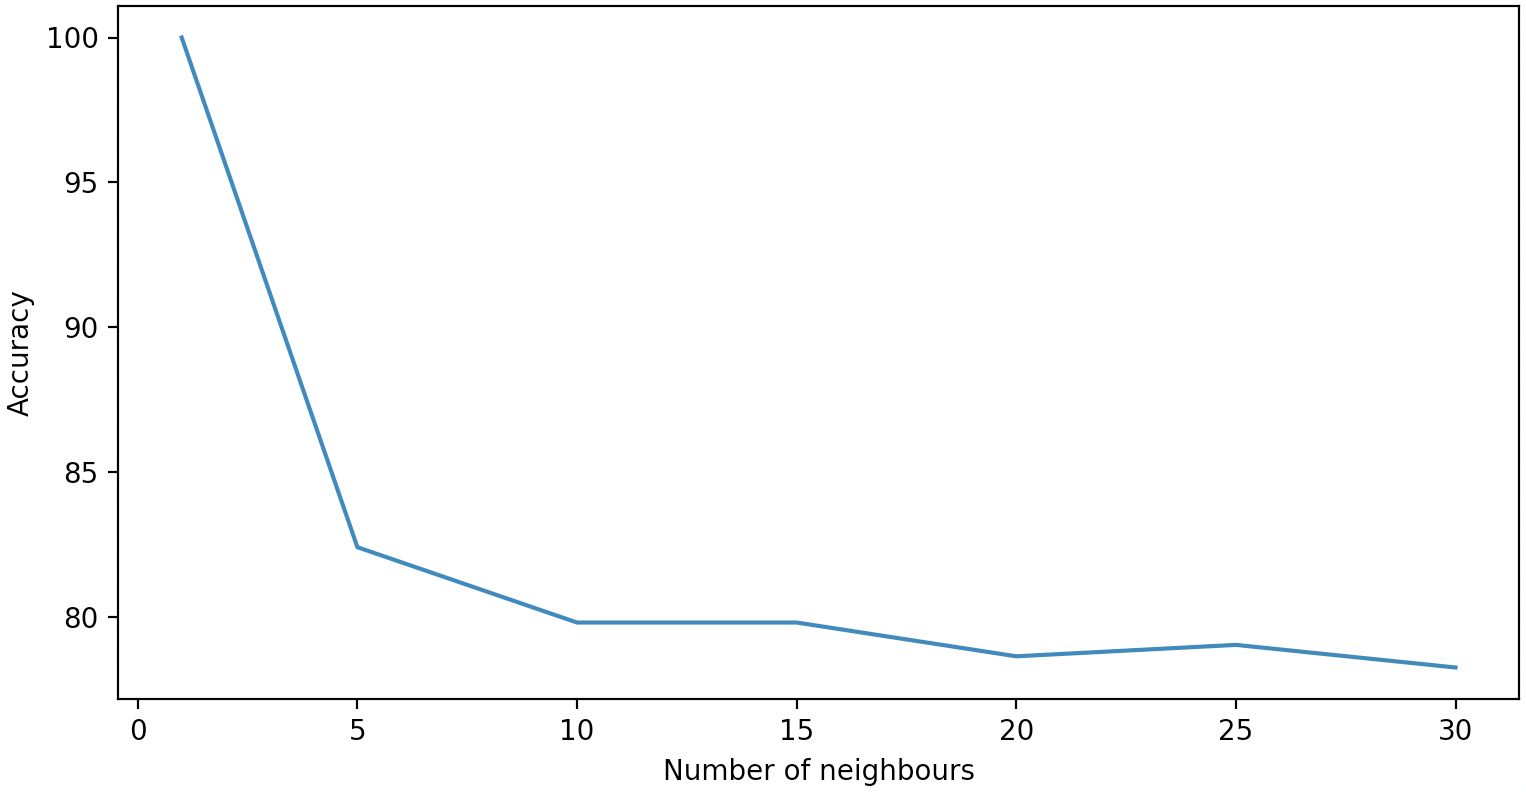
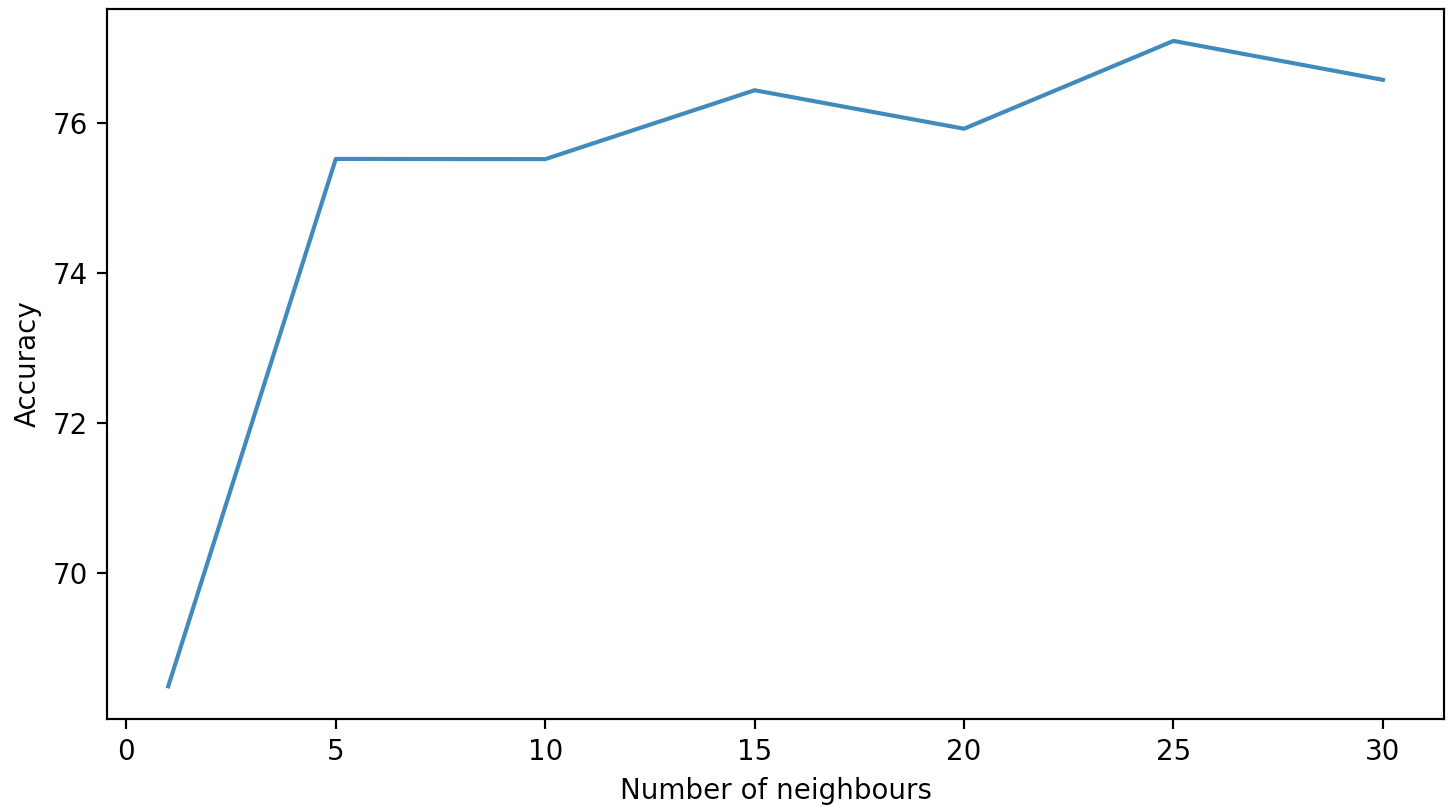
Corrected cross validation, now passes the correct training set to classifiers

diff --git a/s_fold_cross_validation/cross_validation.py b/s_fold_cross_validation/cross_validation.py
@@ -5,11 +5,20 @@ from assignment2.accuracy_measure.accuracy_measure import measure_accuracy
 from assignment2.stratified_folds_generation.stratified_cross_folding import generate_stratified_folds
 
 
+def get_training_set_from_folds(folds, index):
+    result = pandas.DataFrame()
+    for i, fold in enumerate(folds):
+        if i != index:
+            result = pandas.concat([result, fold], axis=0, ignore_index=True)
+    return result
+
+
 def s_fold_cross_validate(classifier: callable, training_set: pandas.DataFrame, folds_number: int, k=None, folds=None):
     if folds is None:
         folds = generate_stratified_folds(training_set, folds_number)
     accuracies = list()
-    for fold in folds:
-        accuracy = measure_accuracy(classifier, training_set, fold, k)
+    for index, fold in enumerate(folds):
+        training_set_new = get_training_set_from_folds(folds, index)
+        accuracy = measure_accuracy(classifier, training_set_new, fold, k)
         accuracies.append(accuracy)
     return statistics.mean(accuracies)

diff --git a/experiments.py b/experiments.py
@@ -26,14 +26,14 @@ testing_set = pd.read_csv("data/test_set_for_accuracy.csv", header=None)
 
 print("KNN ACCURACY")
 print("with cross validation")
-print(s_fold_cross_validate(classify_nn, training_set, 10, 15))
+print(s_fold_cross_validate(classify_nn, training_set, 10, 1))
 print("without cross validation")
-print(measure_accuracy(classify_nn, training_set, testing_set, 15))
+# print(measure_accuracy(classify_nn, training_set, testing_set, 15))
 print("NAIVE BAYES ACCURACY")
 print("with cross validation (10 folds)")
-print(s_fold_cross_validate(classify_nb, training_set, 10))
+# print(s_fold_cross_validate(classify_nb, training_set, 10))
 print("without cross validation")
-print(measure_accuracy(classify_nb, training_set, testing_set))
+# print(measure_accuracy(classify_nb, training_set, testing_set))
 
 
 
